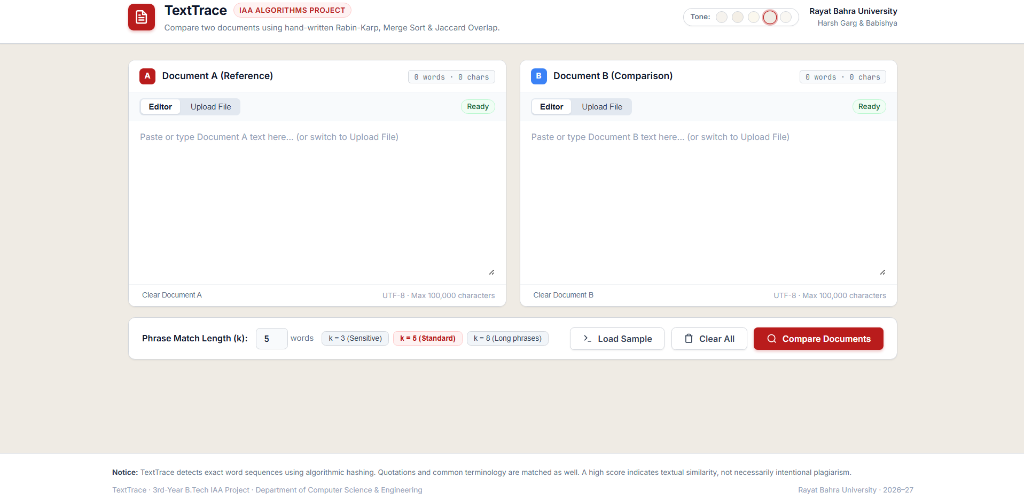
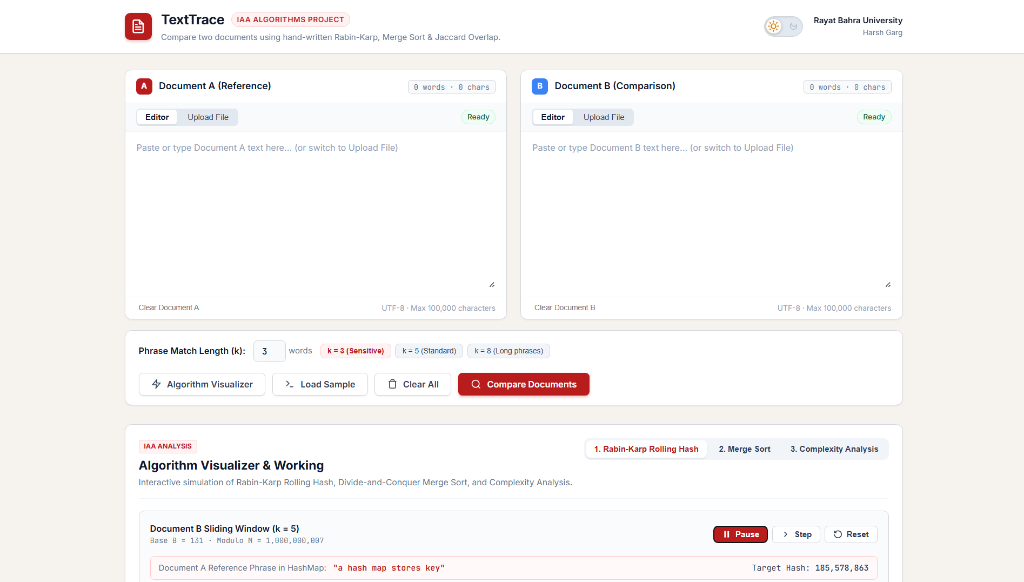
docs: replace screenshots with exact current light and dark UI captures

diff --git a/README.md b/README.md
@@ -28,12 +28,13 @@
 
 ## 📸 Application Interface (Live UI)
 
-![TextTrace Document Comparison Workspace](docs/screenshots/texttrace_ui_main.png)
-*TextTrace Live Application: Side-by-side Document A & Document B workspace with word counters, custom phrase length k presets, and algorithmic comparison controls.*
+### ☀ Light Theme (Warm Cream)
+![TextTrace Light Theme](docs/screenshots/texttrace_light_theme.png)
+*TextTrace Live Application in Light Theme: Featuring side-by-side document workspace, phrase length k presets, animated Sun/Moon toggle, and interactive Algorithm Visualizer.*
 
-| Algorithmic Similarity Results | Interactive Algorithm Visualizer |
-|:---:|:---:|
-| ![Results](docs/screenshots/analysis_results.png) | *Live animated Rabin-Karp sliding window, Merge Sort divide-and-conquer tree, & asymptotic analysis table* |
+### 🌙 Dark Theme (Obsidian)
+![TextTrace Dark Theme](docs/screenshots/texttrace_dark_theme.png)
+*TextTrace Live Application in Dark Theme: Featuring obsidian canvas, elevated dark cards, crimson accents, and real-time algorithmic telemetry.*
 
 ---
 
